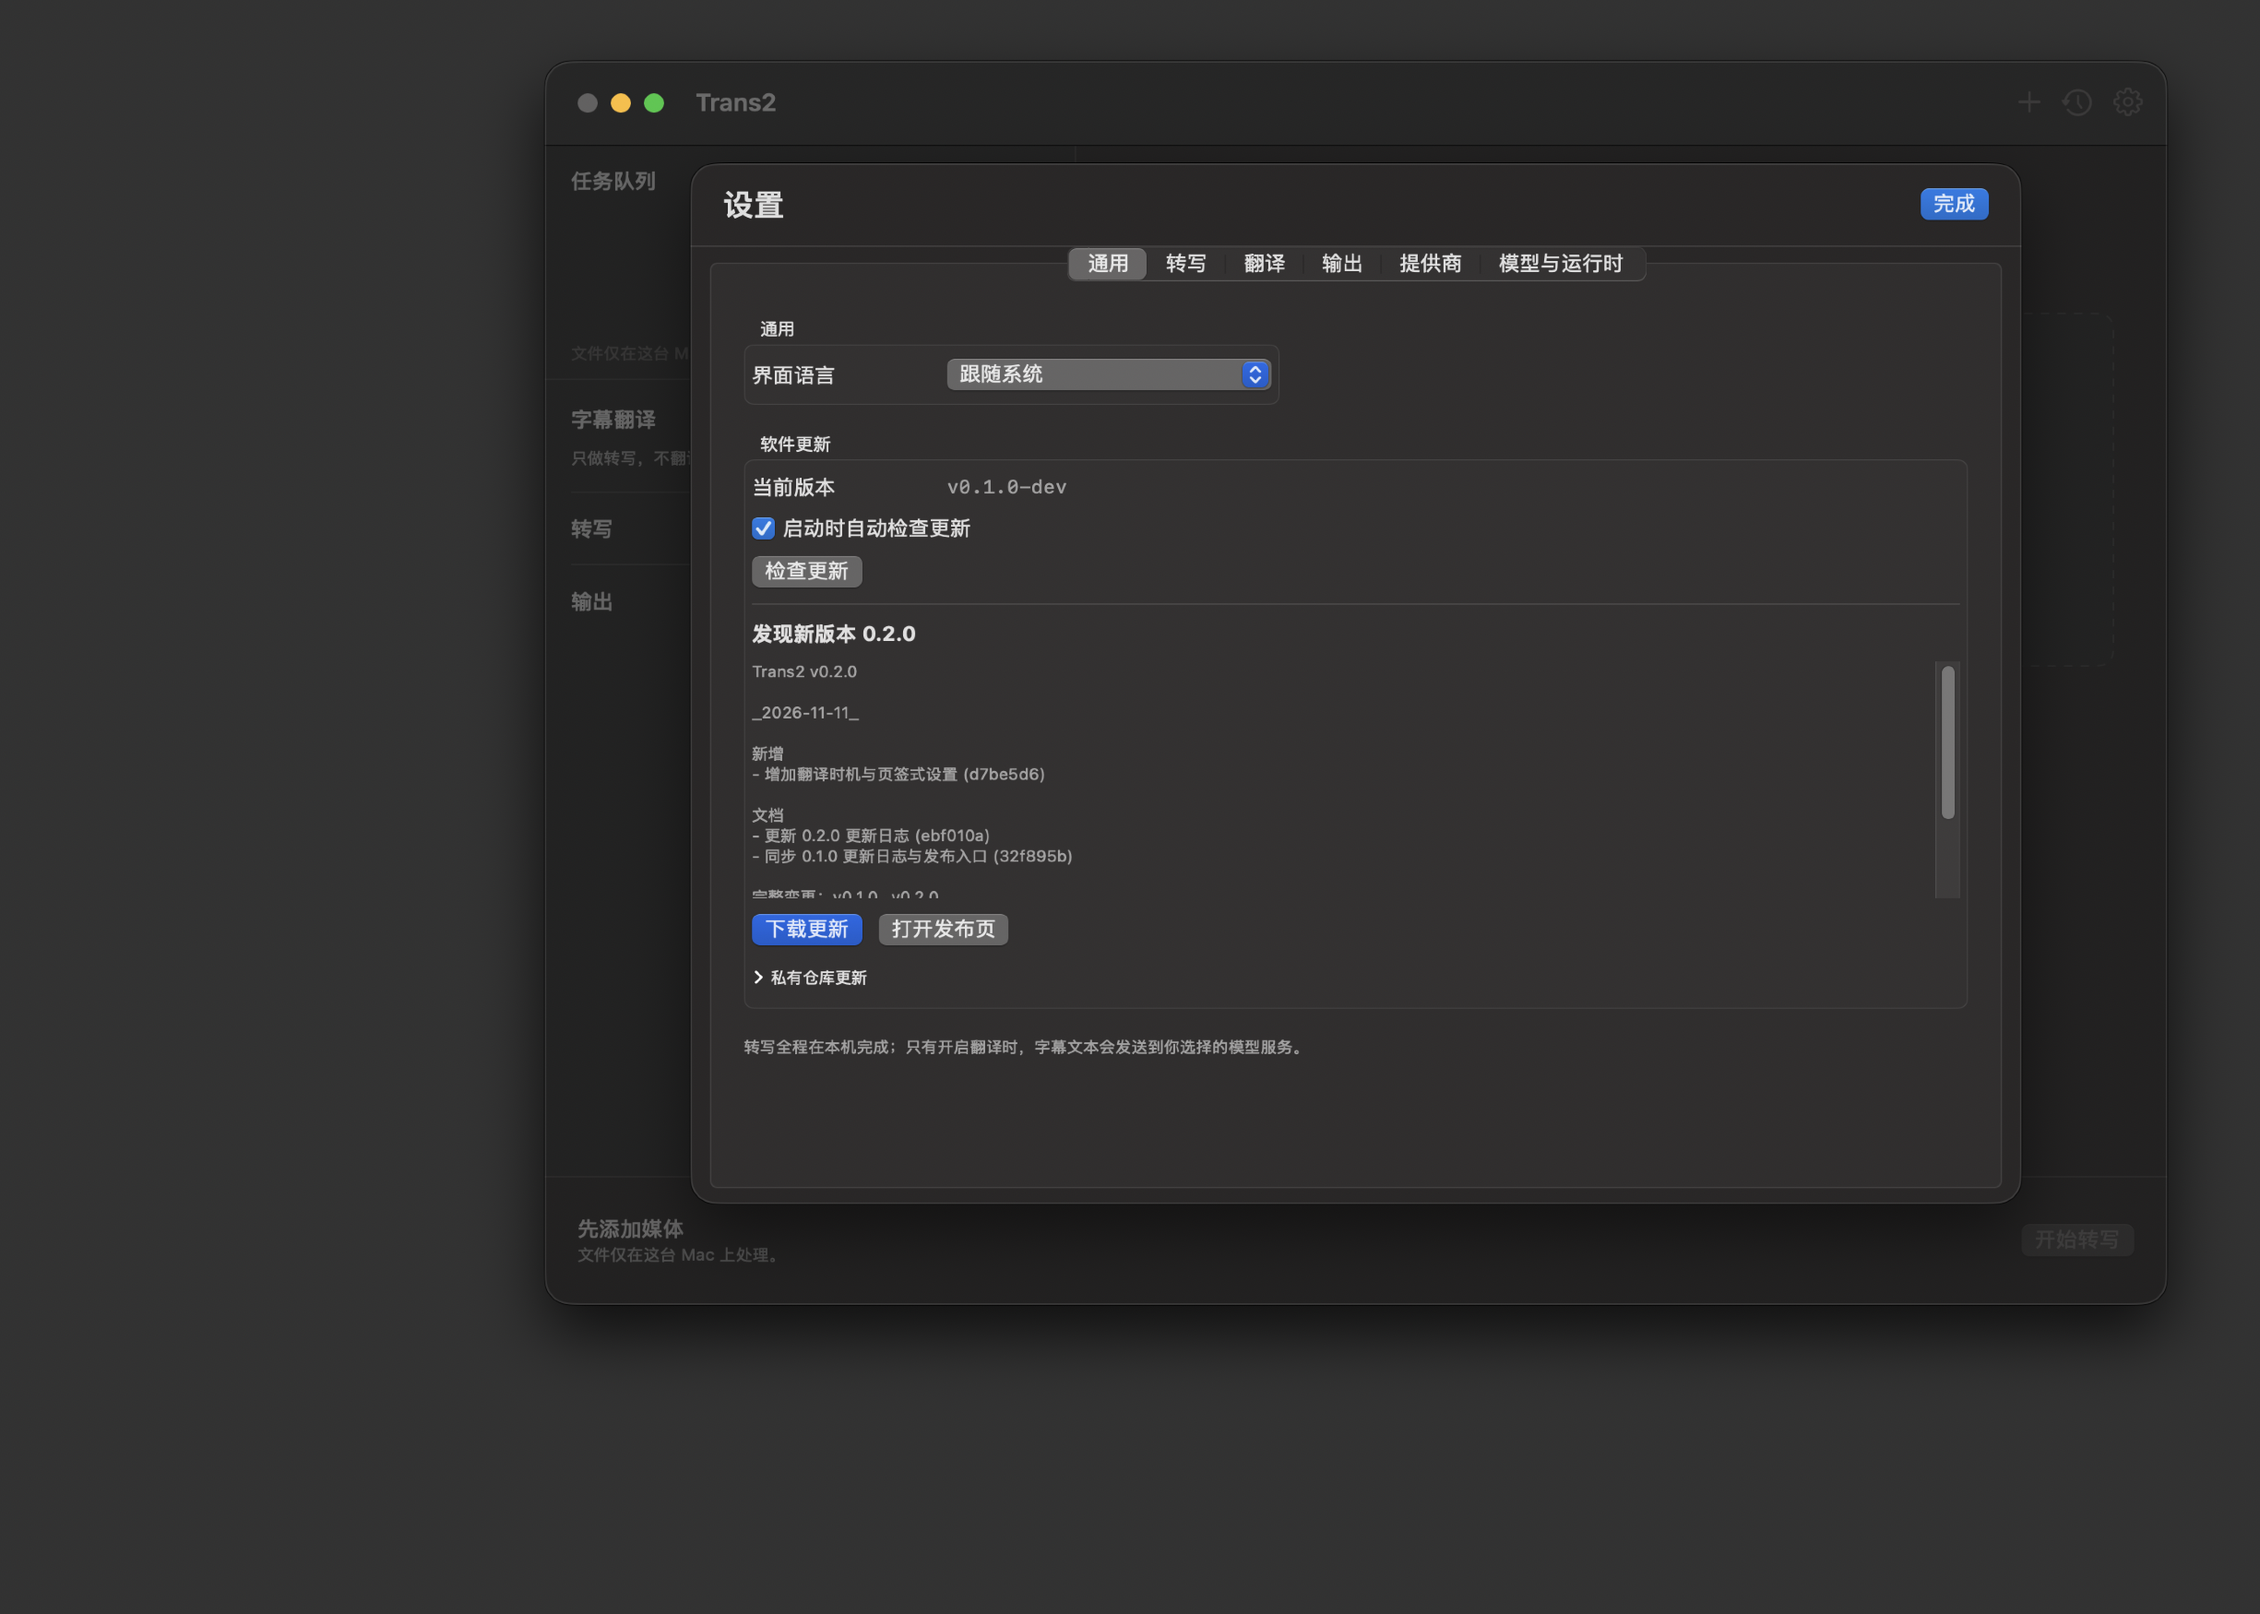
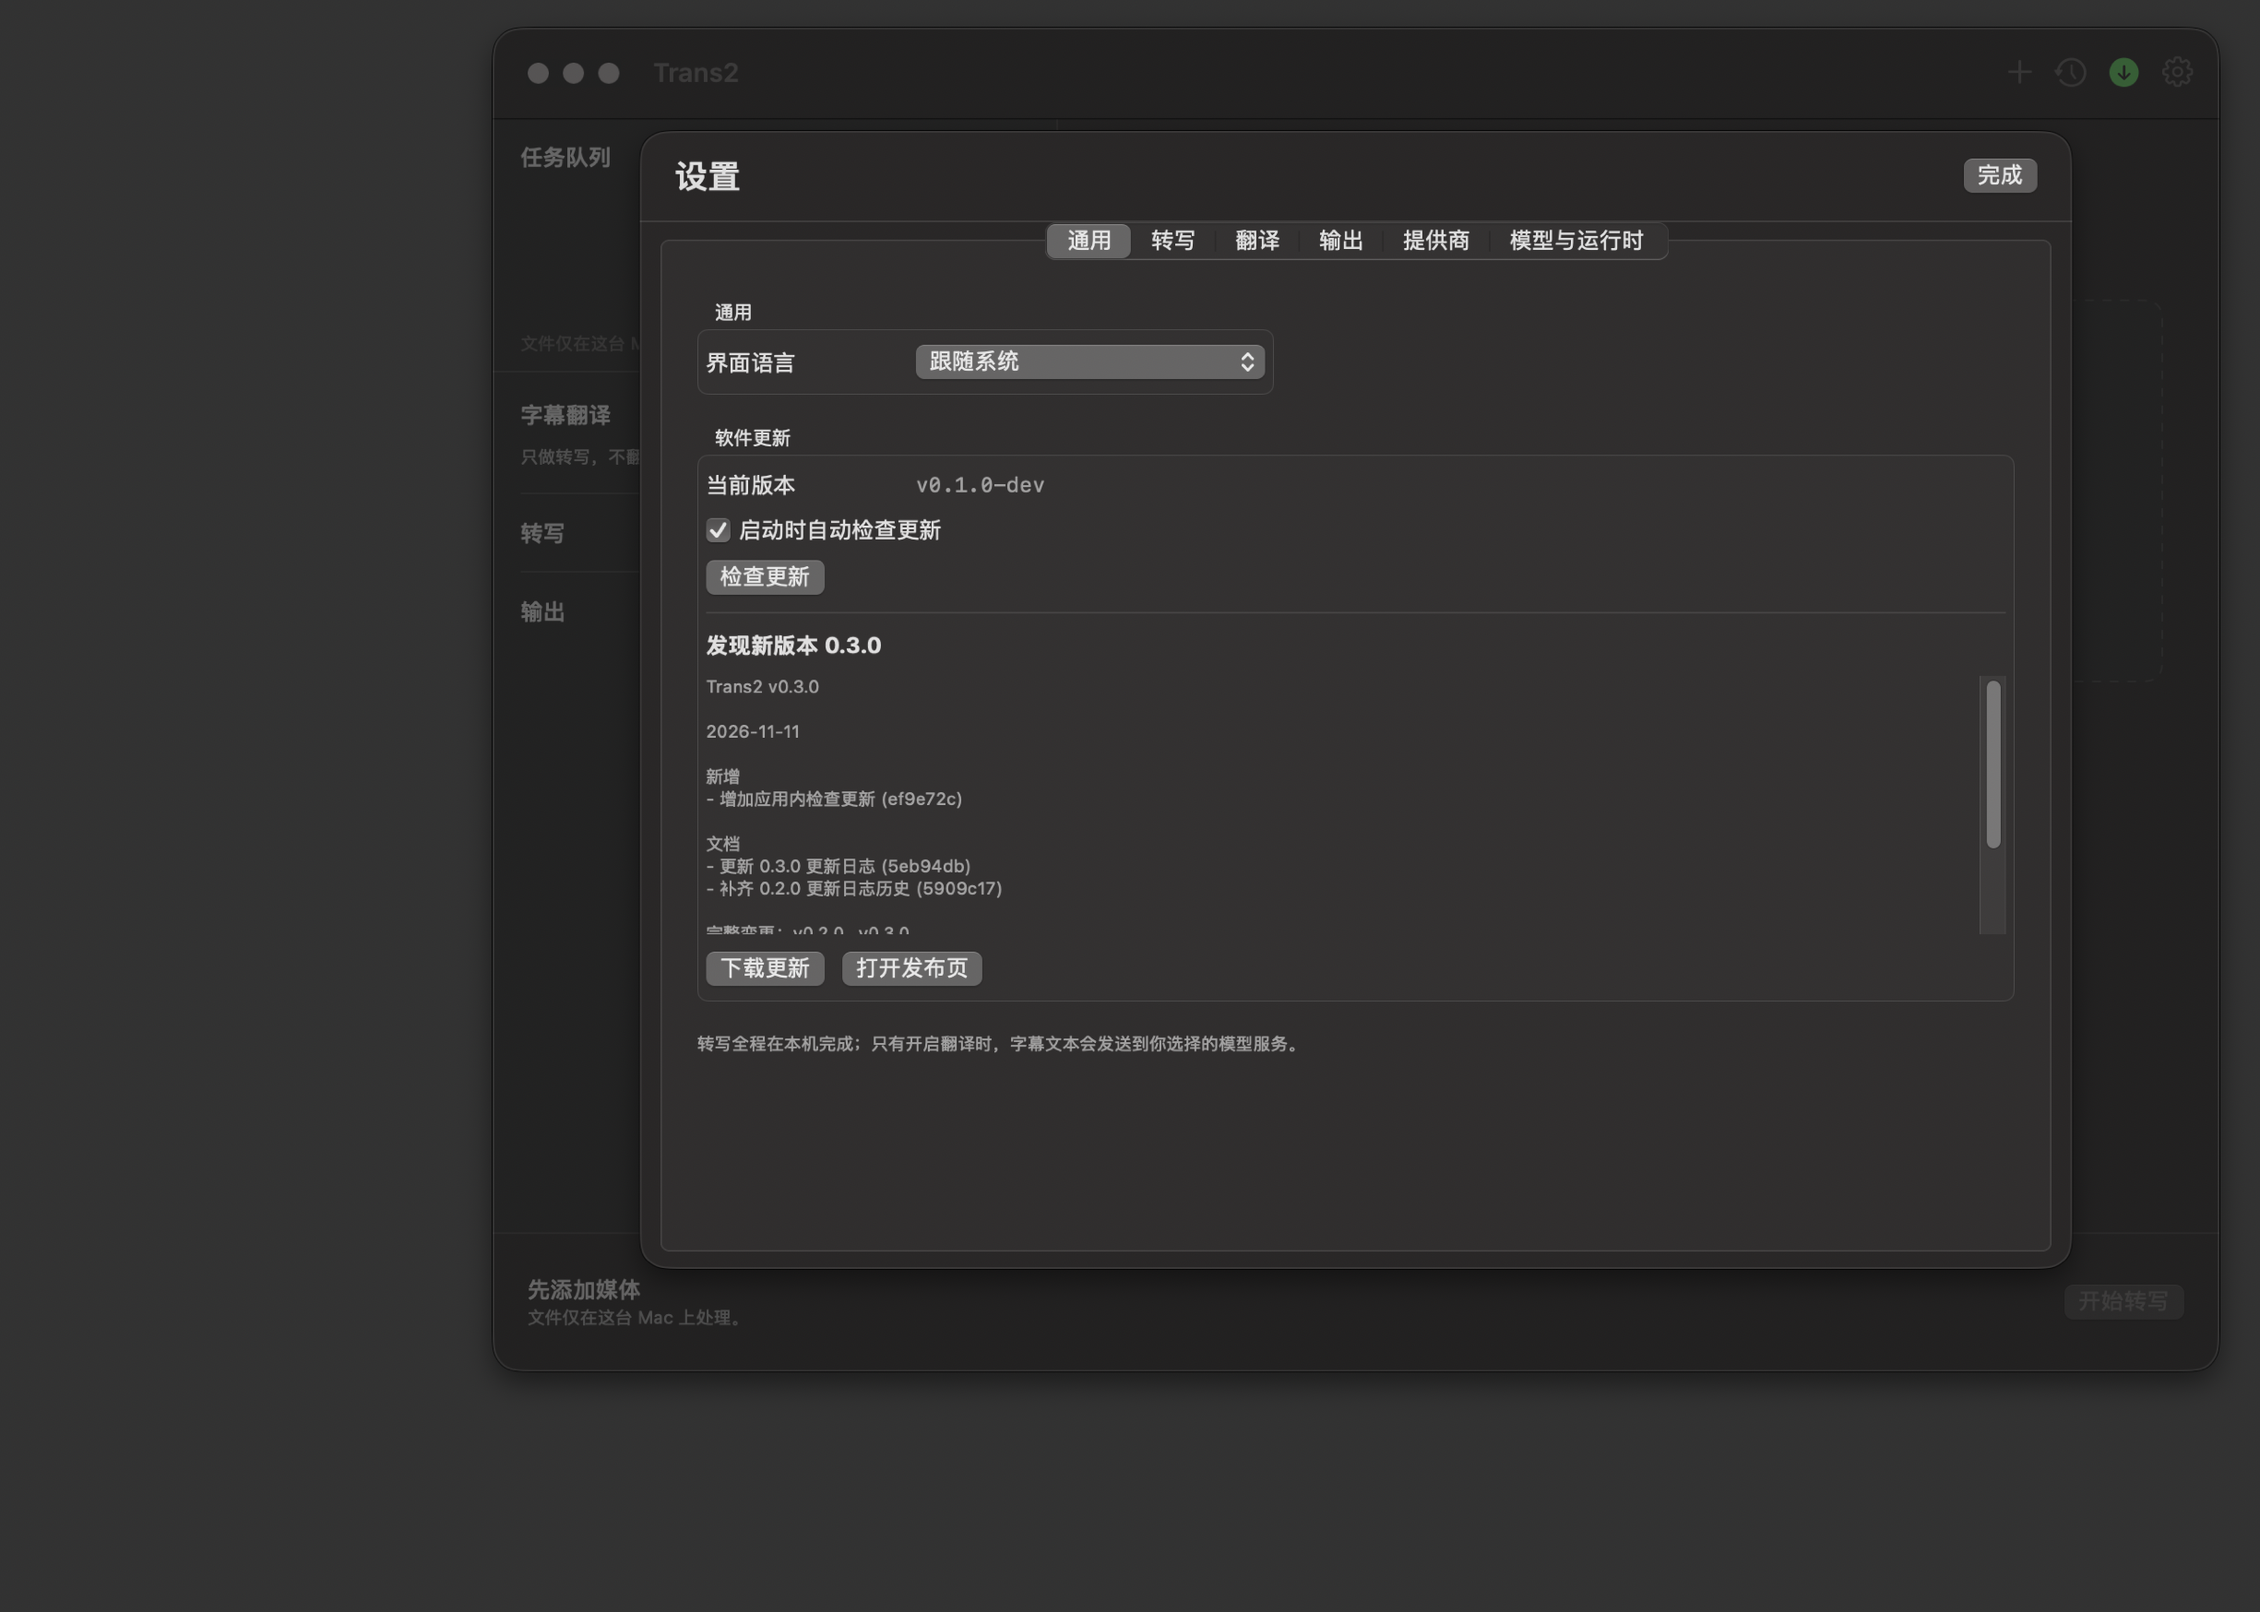
chore: 仓库转公开并移除私有更新 Token
- 更新检查改为公开 GitHub Releases API，无需 Token
- 移除设置里的私有仓库 Token 与相关状态
- 更新下载直接使用公开 asset URL
- 更新文档与截图

diff --git a/Sources/TransCore/UpdateChecker.swift b/Sources/TransCore/UpdateChecker.swift
@@ -7,21 +7,12 @@ public struct UpdateInfo: Sendable, Equatable {
     public let notes: String
     public let downloadURL: URL
     public let pageURL: URL
-    /// GitHub API asset URL; private repositories need this plus a token.
-    public let apiDownloadURL: URL?
 
-    public init(
-        version: String,
-        notes: String,
-        downloadURL: URL,
-        pageURL: URL,
-        apiDownloadURL: URL? = nil
-    ) {
+    public init(version: String, notes: String, downloadURL: URL, pageURL: URL) {
         self.version = version
         self.notes = notes
         self.downloadURL = downloadURL
         self.pageURL = pageURL
-        self.apiDownloadURL = apiDownloadURL
     }
 }
 
@@ -29,19 +20,15 @@ public struct UpdateChecker: Sendable {
     public let repository: String
     /// 优先下载的资产后缀，按顺序匹配；都没有时回退到 .zip。
     public let preferredExtensions: [String]
-    /// 私有仓库的只读 Token；公开仓库留空即可。
-    public let token: String?
     private let session: URLSession
 
     public init(
         repository: String = "Metahumanz/Trans2",
         preferredExtensions: [String] = [".dmg"],
-        token: String? = nil,
         session: URLSession = .shared
     ) {
         self.repository = repository
         self.preferredExtensions = preferredExtensions
-        self.token = token
         self.session = session
     }
 
@@ -58,23 +45,13 @@ public struct UpdateChecker: Sendable {
         request.setValue("application/vnd.github+json", forHTTPHeaderField: "Accept")
         request.setValue("2022-11-28", forHTTPHeaderField: "X-GitHub-Api-Version")
         request.setValue("Trans2", forHTTPHeaderField: "User-Agent")
-        if let token, !token.isEmpty {
-            request.setValue("Bearer \(token)", forHTTPHeaderField: "Authorization")
-        }
         request.timeoutInterval = 20
 
         let (data, response) = try await session.data(for: request)
         let status = (response as? HTTPURLResponse)?.statusCode ?? 0
         guard status == 200 else {
             if status == 404 {
-                throw AITransError(
-                    token?.isEmpty == false
-                        ? "仓库还没有发布版本，或 Token 没有读取 Release 的权限。"
-                        : "仓库是私有的，匿名检查会返回 404；请填写只读 GitHub Token，或把仓库设为公开。"
-                )
-            }
-            if status == 401 || status == 403 {
-                throw AITransError("GitHub Token 无效或没有读取 Release 的权限。")
+                throw AITransError("仓库还没有发布版本。")
             }
             throw AITransError("检查更新失败（HTTP \(status)）。")
         }
@@ -101,12 +78,12 @@ public struct UpdateChecker: Sendable {
         guard !tag.isEmpty else { throw AITransError("更新信息缺少版本号。") }
         let notes = root["body"] as? String ?? ""
         let assets = root["assets"] as? [[String: Any]] ?? []
-        let named = assets.compactMap { asset -> (name: String, browser: String, api: String?)? in
+        let named = assets.compactMap { asset -> (name: String, browser: String)? in
             guard
                 let name = asset["name"] as? String,
                 let url = asset["browser_download_url"] as? String
             else { return nil }
-            return (name, url, asset["url"] as? String)
+            return (name, url)
         }
         let preferred = preferredExtensions.lazy
             .compactMap { ext in named.first { $0.name.lowercased().hasSuffix(ext.lowercased()) } }
@@ -120,13 +97,7 @@ public struct UpdateChecker: Sendable {
         }
 
         guard isNewer(tag, than: currentVersion) else { return nil }
-        return UpdateInfo(
-            version: tag,
-            notes: notes,
-            downloadURL: download,
-            pageURL: page,
-            apiDownloadURL: asset.flatMap { $0.api.flatMap(URL.init(string:)) }
-        )
+        return UpdateInfo(version: tag, notes: notes, downloadURL: download, pageURL: page)
     }
 
     /// 语义化版本比较；非数字段按字符串比较。

diff --git a/Sources/Trans2/AppModel.swift b/Sources/Trans2/AppModel.swift
@@ -69,9 +69,6 @@ final class AppModel: ObservableObject {
     @Published var autoCheckUpdates: Bool {
         didSet { defaults.set(autoCheckUpdates, forKey: Keys.autoCheckUpdates) }
     }
-    @Published var githubUpdateToken: String {
-        didSet { persistUpdateToken() }
-    }
     @Published private(set) var updateInfo: UpdateInfo?
     @Published private(set) var isCheckingForUpdates = false
     @Published private(set) var isDownloadingUpdate = false
@@ -121,7 +118,6 @@ final class AppModel: ObservableObject {
 
     private let defaults: UserDefaults
     private let providerStore: ProviderStore
-    private let updateSecrets: FileSecretStore
     private let supportDirectory: URL
     private let vadModelSearchRoots: [URL]?
     private let huggingFaceEnvironment: [String: String]
@@ -161,7 +157,6 @@ final class AppModel: ObservableObject {
         self.completionNotifier = completionNotifier ?? CompletionNotifier()
         self.defaults = defaults
         self.supportDirectory = supportDirectory
-        self.updateSecrets = FileSecretStore(path: supportDirectory.appending(path: "secrets.json"))
         self.providerStore = providerStore
             ?? ProviderStore(secrets: FileSecretStore(path: supportDirectory.appending(path: "secrets.json")))
         self.vadModelSearchRoots = vadModelSearchRoots
@@ -209,7 +204,6 @@ final class AppModel: ObservableObject {
 
         inputFiles = []
         autoCheckUpdates = defaults.object(forKey: Keys.autoCheckUpdates) as? Bool ?? true
-        githubUpdateToken = (try? updateSecrets.secret(for: Self.updateTokenKey)) ?? ""
         appLanguage = AppLanguage(storedValue: defaults.string(forKey: Keys.appLanguage))
         outputDirectoryPath = defaults.string(forKey: Keys.outputDirectoryPath) ?? ""
         whisperCLIPath = initialWhisperCLIPath
@@ -330,27 +324,8 @@ final class AppModel: ObservableObject {
 
     // MARK: - Updates
 
-    private static let updateTokenKey = "github-update"
-
     var appVersion: String {
         Bundle.main.object(forInfoDictionaryKey: "CFBundleShortVersionString") as? String ?? "0.0.0"
-    }
-
-    private var updateToken: String? {
-        let trimmed = githubUpdateToken.trimmingCharacters(in: .whitespacesAndNewlines)
-        return trimmed.isEmpty ? nil : trimmed
-    }
-
-    private func persistUpdateToken() {
-        do {
-            if let token = updateToken {
-                try updateSecrets.setSecret(token, for: Self.updateTokenKey)
-            } else {
-                try updateSecrets.deleteSecret(for: Self.updateTokenKey)
-            }
-        } catch {
-            appendLog(L.tr("settings.update_token_error", error.localizedDescription))
-        }
     }
 
     func checkForUpdates(manual: Bool = true) {
@@ -361,7 +336,7 @@ final class AppModel: ObservableObject {
         Task {
             defer { isCheckingForUpdates = false }
             do {
-                let checker = UpdateChecker(token: updateToken)
+                let checker = UpdateChecker()
                 if let info = try await checker.check() {
                     updateInfo = info
                     updateStatusText = ""
@@ -388,7 +363,7 @@ final class AppModel: ObservableObject {
         Task {
             defer { isDownloadingUpdate = false }
             do {
-                let file = try await UpdateDownloader.download(updateInfo, token: updateToken)
+                let file = try await UpdateDownloader.download(updateInfo)
                 downloadedUpdate = file
                 updateStatusText = L.tr("settings.update_downloaded", file.path)
                 NSWorkspace.shared.activateFileViewerSelecting([file])

diff --git a/Sources/TransCore/UpdateDownloader.swift b/Sources/TransCore/UpdateDownloader.swift
@@ -11,22 +11,14 @@ public enum UpdateDownloader {
             ?? FileManager.default.temporaryDirectory
     }
 
-    /// 下载更新包，返回落盘位置。私有仓库需要传只读 Token。
+    /// 下载更新包，返回落盘位置。
     public static func download(
         _ info: UpdateInfo,
-        token: String? = nil,
         into directory: URL = downloadsDirectory
     ) async throws -> URL {
-        let token = token?.trimmingCharacters(in: .whitespacesAndNewlines)
-        let useAPI = token?.isEmpty == false
-        let url = useAPI ? (info.apiDownloadURL ?? info.downloadURL) : info.downloadURL
-        var request = URLRequest(url: url)
+        var request = URLRequest(url: info.downloadURL)
         request.timeoutInterval = 60
         request.setValue("Trans2", forHTTPHeaderField: "User-Agent")
-        if let token, !token.isEmpty {
-            request.setValue("application/octet-stream", forHTTPHeaderField: "Accept")
-            request.setValue("Bearer \(token)", forHTTPHeaderField: "Authorization")
-        }
         let (temporary, response) = try await URLSession.shared.download(for: request)
         guard (response as? HTTPURLResponse)?.statusCode == 200 else {
             throw AITransError("下载失败，请稍后重试或打开下载页。")

diff --git a/Sources/Trans2/SettingsWindow.swift b/Sources/Trans2/SettingsWindow.swift
@@ -211,19 +211,6 @@ private struct GeneralSettingsTab: View {
                             .font(.caption)
                         }
                     }
-
-                    DisclosureGroup(L.tr("settings.private_repo")) {
-                        VStack(alignment: .leading, spacing: 6) {
-                            SecureField(L.tr("settings.github_token"), text: $model.githubUpdateToken)
-                                .textFieldStyle(.roundedBorder)
-                            Text(L.tr("settings.github_token_hint"))
-                                .font(.caption2)
-                                .foregroundStyle(.secondary)
-                                .fixedSize(horizontal: false, vertical: true)
-                        }
-                        .padding(.top, 4)
-                    }
-                    .font(.caption)
                 }
                 .padding(.vertical, 4)
             }

diff --git a/README.md b/README.md
@@ -37,7 +37,7 @@ whisper.cpp 转写能力和 [AItrans](../AItrans) 的字幕翻译内核合成一
 - **双语字幕**：默认输出「译文在上、原文在下」的 `xxx.<lang>.srt`，也可以只输出译文。
 - **提供商管理**：9 个预设、增删改、切换、连通性测试；密钥保存在本机 `secrets.json`（0600），不进 `providers.json`。
 - **从 AItrans 一键导入**：首次启动自动读取 `~/Library/Application Support/AITrans/` 里的提供商与密钥，不用重填 Key。
-- **应用内检查更新**：启动时可选自动检查 GitHub Releases；发现新版本可下载 dmg/zip 或打开发布页。公开仓库直接可用；私有仓库需要在「设置 → 通用 → 私有仓库更新」填一个只读 GitHub Token。
+- **应用内检查更新**：启动时可选自动检查 GitHub Releases；发现新版本可下载 dmg/zip 或打开发布页。仓库公开，无需任何 Token。
 - **沿用 WhisperMac 的运行时**：首次启动会优先复用 `~/Library/Application Support/WhisperMac/` 里已有的 whisper-cli、模型、Core ML encoder 和 Silero VAD 模型，不重复下载 1.5 GB。
 - **界面**：English / 简体中文 / 日本語，跟随系统或手动切换。
 
@@ -159,7 +159,7 @@ git push origin main --tags
 - 仅 macOS / Apple Silicon；Windows 版本尚未开始。
 - 不是字幕编辑器：没有时间轴拖动、逐句校对界面。
 - 发布产物为 ad-hoc 签名，首次打开需右键「打开」或 `xattr -cr`。
-- 应用内更新检查依赖 GitHub Releases。仓库是 private 时，匿名请求会 404，需要在设置里填只读 Token；把仓库设为公开后可以留空。
+- 应用内更新检查依赖 GitHub Releases 的公开 API。
 - 翻译会消耗所选服务的额度；密钥以明文保存在本机文件，请自行保护用户目录。
 - 同一次批量里若两个同名 `.srt` 指向同一个统一输出目录，后一个会覆盖前一个。
 
